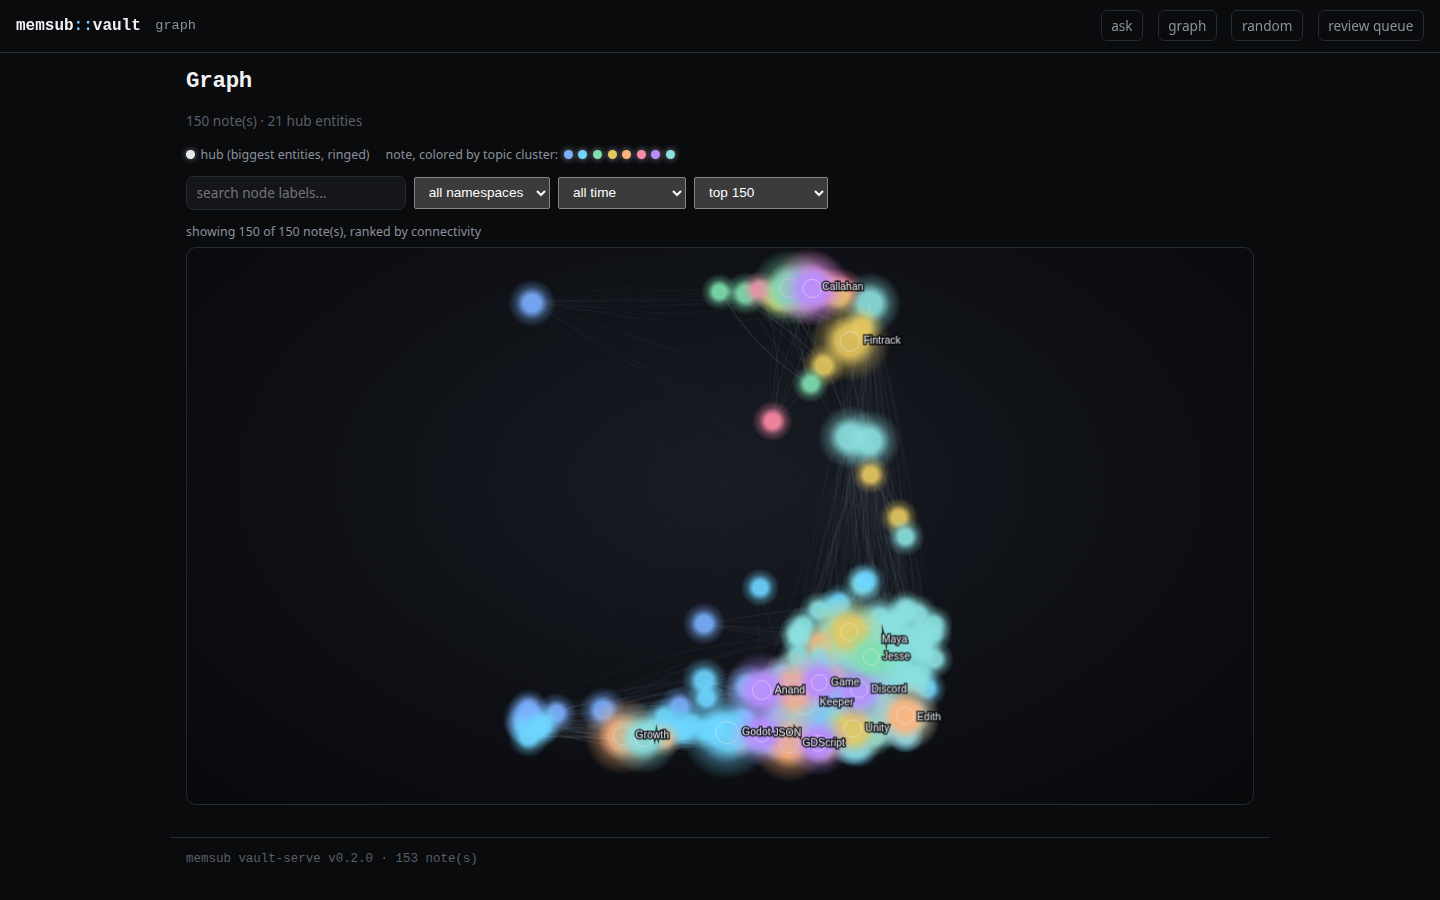
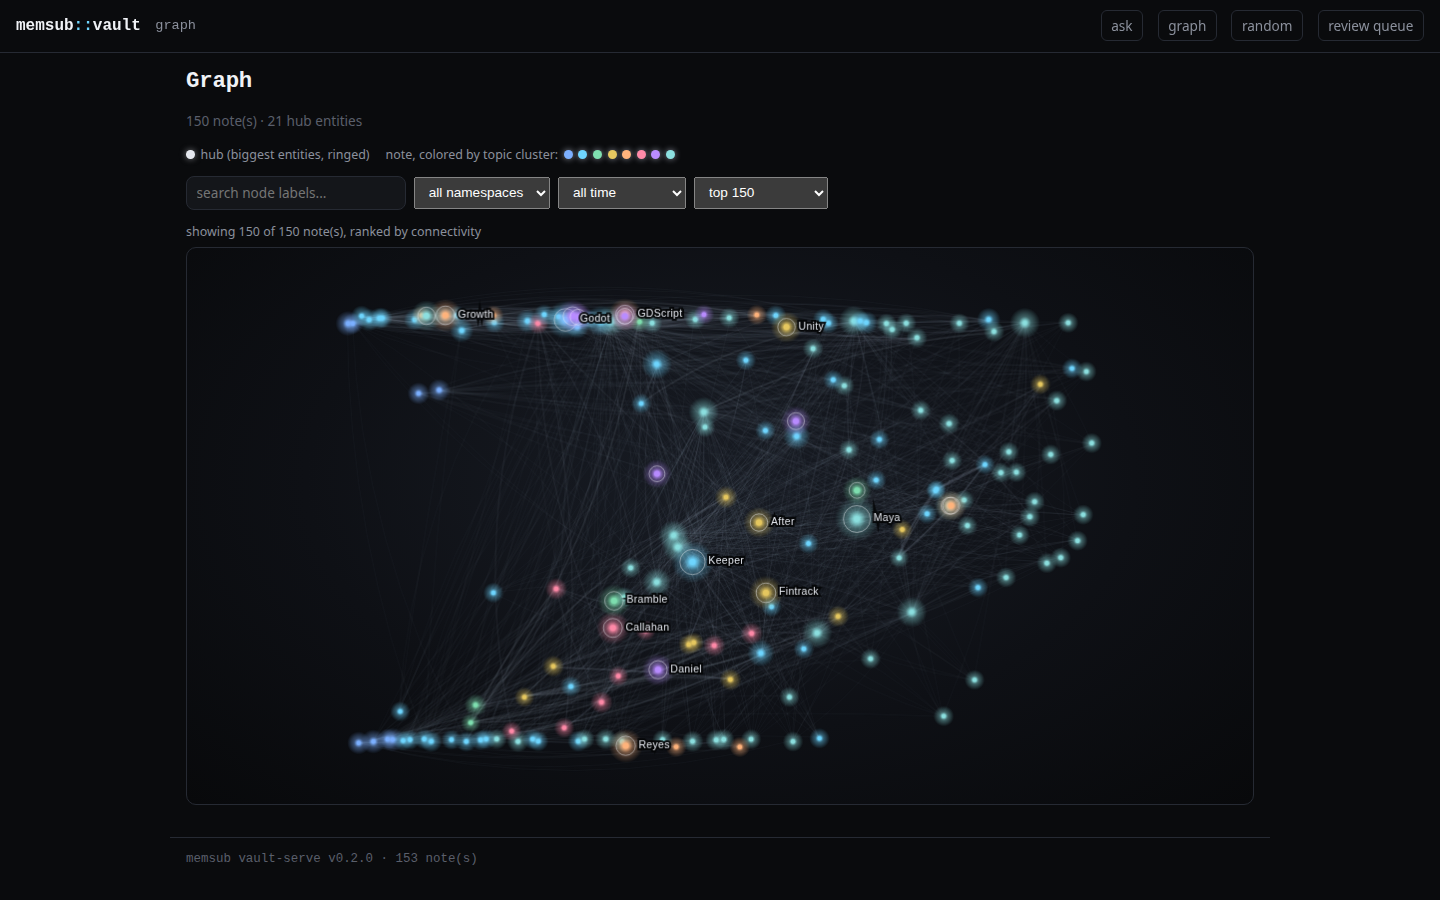
Graph rebuild 4/4: fix density collapse, bloom overdose, label smear
Coordinator review of the real-vault screenshot flagged three concrete
failures against the Obsidian-marketing bar, all fixed:

1. Density collapse (~80% of nodes crushed into one band): raw SVD-2D
   unit-norm coordinates don't guarantee even spread. Replaced
   _clip_outliers with _rank_normalize in memsub/vault_graph.py -- each
   axis becomes that axis's rank percentile (independently for x/y),
   mapped to [-0.5, 0.5]. Rank order preserves cluster separation, density
   becomes uniform by construction. Real vault: max grid-cell share now
   9.3% (coordinator's ~8% target), was one dominant band.

2. Bloom overdose (adjacent nodes merging into fog): tightened the glow
   sprite's gradient falloff, halved sprite size, and changed the glow
   radius formula from a flat r-multiple to r + sqrt(r)*k (sub-linear, so
   big hubs don't balloon), plus an explicit small fixed-size bright core
   disc so every node reads as a distinct point.

3. Label smear ("Kumo Both User Fable" collapsing into one block): the
   collision-skip exception now covers only the exact hovered/selected
   node, not its whole neighbor set -- every other label must pass the
   collision check. Added a ~10-12-at-rest label cap that grows with
   zoom, letter-spacing, and a heavier dark halo.

Also verified real-vault boot behavior end to end: it does come up
cleanly, but the process doesn't accept any TCP connection for ~7.7s
(curl reports connection-refused, not a slow response) because
[…]

diff --git a/memsub/vault_serve.py b/memsub/vault_serve.py
@@ -1065,6 +1065,16 @@ ul.related-list.discovery { display: grid; gap: 0.4rem; }
 .graph-controls select, .graph-controls input[type=text] { width: auto; min-width: 8rem; padding: 0.4rem 0.6rem; font-size: 0.85rem; }
 .graph-status { font-size: 0.78rem; color: var(--text-dim); margin: 0.4rem 0; }
 .graph-status button.expand { background: none; border: 1px solid var(--border); color: var(--accent); border-radius: 6px; padding: 0.1rem 0.5rem; font-size: 0.78rem; cursor: pointer; margin-left: 0.5rem; }
+/* Page shell (including this wrap) renders instantly -- coordinates are
+   fetched async from /api/graph.json, this shimmer covers that gap so
+   first paint never waits on the server-side layout computation. */
+.graph-shimmer {
+  position: absolute; inset: 0;
+  background: linear-gradient(100deg, rgba(255,255,255,0.015) 40%, rgba(255,255,255,0.06) 50%, rgba(255,255,255,0.015) 60%);
+  background-size: 200% 100%; animation: graph-shimmer-move 1.5s ease-in-out infinite;
+}
+@keyframes graph-shimmer-move { 0% { background-position: 140% 0; } 100% { background-position: -40% 0; } }
+@media (prefers-reduced-motion: reduce) { .graph-shimmer { animation: none; background: rgba(255,255,255,0.02); } }
 .graph-legend { display: flex; flex-wrap: wrap; gap: 0.75rem 1rem; font-size: 0.78rem; color: var(--text-dim); margin-bottom: 0.5rem; }
 .graph-legend span { display: inline-flex; align-items: center; gap: 0.35rem; }
 .graph-legend .dot { width: 9px; height: 9px; border-radius: 50%; display: inline-block; box-shadow: 0 0 6px currentColor; }
@@ -1271,8 +1281,11 @@ _GRAPH_JS = """
   // pre-rendered once to an offscreen canvas and reused via drawImage every
   // frame. Building a CanvasGradient per node per frame is the expensive
   // way to get "radial gradient fill + bloom" -- this sprite-cache approach
-  // gets the same look at 60fps for hundreds of nodes on a phone.
-  var SPRITE_SIZE = 96;
+  // gets the same look at 60fps for hundreds of nodes on a phone. Falloff
+  // is deliberately tight (2026-07-21 review: the first pass's glow radius
+  // was so large adjacent nodes merged into fog) -- crispness over
+  // atmosphere, the sprite is mostly transparent past a small hot core.
+  var SPRITE_SIZE = 64;
   var spriteCache = {};
   function glowSprite(color){
     if (spriteCache[color]) return spriteCache[color];
@@ -1282,8 +1295,8 @@ _GRAPH_JS = """
     var cx = SPRITE_SIZE / 2;
     var grad = g.createRadialGradient(cx, cx, 0, cx, cx, cx);
     grad.addColorStop(0, color);
-    grad.addColorStop(0.35, color);
-    grad.addColorStop(0.65, color + "55");
+    grad.addColorStop(0.16, color);
+    grad.addColorStop(0.4, color + "70");
     grad.addColorStop(1, color + "00");
     g.fillStyle = grad;
     g.fillRect(0, 0, SPRITE_SIZE, SPRITE_SIZE);
@@ -1441,9 +1454,19 @@ _GRAPH_JS = """
       node.__r = r; node.__dim = dim; node.__focus = isFocus; node.__sx = sx; node.__sy = sy;
 
       var sprite = glowSprite(colorFor(node));
-      var glowR = r * (isHub ? 4.2 : 3.2) / view.scale;
+      // glow grows sub-linearly with r (sqrt term) so a big hub's halo
+      // doesn't balloon into a cloud the way a linear r-multiple did
+      var glowR = (r + Math.sqrt(r) * (isHub ? 2.4 : 1.7)) / view.scale;
       ctx.globalAlpha = dim ? 0.15 : (isFocus ? 1 : 0.92);
       ctx.drawImage(sprite, sx - glowR, sy - glowR, glowR * 2, glowR * 2);
+
+      // crisp bright core: a small fixed-screen-size solid disc so every
+      // node reads as a distinct point even where glows touch
+      var coreR = (isHub ? 3 : 2.2) / view.scale;
+      ctx.beginPath();
+      ctx.arc(sx, sy, coreR, 0, Math.PI * 2);
+      ctx.fillStyle = colorFor(node);
+      ctx.fill();
 
       if (isHub){
         ctx.globalAlpha = dim ? 0.2 : 0.85;
@@ -1465,10 +1488,14 @@ _GRAPH_JS = """
     });
 
     // pass 2: labels, drawn after every glow (never buried under a later
-    // node's sprite) and decluttered by priority -- focused node and its
-    // neighbors first, then hubs, then by connectivity -- so dense clumps
-    // of hub labels stop stacking illegibly on top of each other.
+    // node's sprite) and decluttered by priority -- the exact hovered/
+    // selected node first (the one label allowed to ignore collision),
+    // then its neighbors, then hubs, then by connectivity. Capped to ~12
+    // at rest (2026-07-21 review: "Kumo Both User Fable" collided into one
+    // smear) and grows as the user zooms in.
     ctx.globalAlpha = 1;
+    if ("letterSpacing" in ctx) ctx.letterSpacing = "0.4px";
+    var cap = clamp(Math.round(10 + Math.max(0, view.scale - 0.6) * 18), 8, 400);
     var candidates = sim.nodes.filter(function(node){
       var isHub = node.kind === "hub";
       return !node.__dim && (
@@ -1479,10 +1506,11 @@ _GRAPH_JS = """
       );
     });
     candidates.sort(function(a, b){
-      var pa = a.__focus ? 0 : (a.kind === "hub" ? 1 : 2);
-      var pb = b.__focus ? 0 : (b.kind === "hub" ? 1 : 2);
+      function pri(n){ return n === focus ? 0 : n.__focus ? 1 : (n.kind === "hub" ? 2 : 3); }
+      var pa = pri(a), pb = pri(b);
       return pa !== pb ? pa - pb : b.degree - a.degree;
     });
+    candidates = candidates.slice(0, cap);
     var placed = [];
     candidates.forEach(function(node){
       var fontSize = 10.5 / view.scale;
@@ -1494,10 +1522,12 @@ _GRAPH_JS = """
       var overlaps = placed.some(function(p){
         return !(rect[2] < p[0] || rect[0] > p[2] || rect[3] < p[1] || rect[1] > p[3]);
       });
-      if (overlaps && !node.__focus) return;
+      // the exact focused node is the only one allowed to ignore collision
+      // -- every other label (including its neighbors) must fit cleanly
+      if (overlaps && node !== focus) return;
       placed.push(rect);
-      ctx.lineWidth = 3 / view.scale;
-      ctx.strokeStyle = "rgba(6,7,10,0.8)";
+      ctx.lineWidth = 4 / view.scale;
+      ctx.strokeStyle = "rgba(4,5,7,0.9)";
       ctx.strokeText(label, lx, ly);
       ctx.fillStyle = "#e4e7ee";
       ctx.fillText(label, lx, ly);
@@ -1599,6 +1629,8 @@ _GRAPH_JS = """
     }
 
     function start(data){
+      var shimmer = wrap.querySelector(".graph-shimmer");
+      if (shimmer) shimmer.remove();
       var s = size();
       sim = makeSim(data, s.W, s.H, mode);
       settleFrames = 0;
@@ -2049,6 +2081,7 @@ def render_graph_page(idx: VaultIndex, graph) -> bytes:
         'data-status="graph-status" data-search="graph-search" data-namespace="graph-namespace" '
         'data-period="graph-period" data-limit="graph-limit">'
         '<canvas class="graph-canvas"></canvas>'
+        '<div class="graph-shimmer" aria-hidden="true"></div>'
         "</div>"
         f"{empty_note}"
         f"{_GRAPH_JS}"

diff --git a/memsub/vault_graph.py b/memsub/vault_graph.py
@@ -329,31 +329,43 @@ def _jittered(seed_text: str, spread: float) -> tuple[float, float]:
     return (r * math.cos(angle), r * math.sin(angle))
 
 
-def _percentile(sorted_vals: list[float], p: float) -> float:
-    if not sorted_vals:
-        return 0.0
-    idx = p * (len(sorted_vals) - 1)
-    lo, hi = int(idx), min(int(idx) + 1, len(sorted_vals) - 1)
-    frac = idx - lo
-    return sorted_vals[lo] * (1 - frac) + sorted_vals[hi] * frac
+def _ranks(vals: list[float]) -> list[float]:
+    """0-indexed average rank of each value (ties share the mean rank of
+    their tied block), aligned with `vals`' input order."""
+    order = sorted(range(len(vals)), key=lambda i: vals[i])
+    ranks = [0.0] * len(vals)
+    i = 0
+    while i < len(order):
+        j = i
+        while j + 1 < len(order) and vals[order[j + 1]] == vals[order[i]]:
+            j += 1
+        avg_rank = (i + j) / 2.0
+        for k in range(i, j + 1):
+            ranks[order[k]] = avg_rank
+        i = j + 1
+    return ranks
 
 
-def _clip_outliers(coords: dict[str, tuple[float, float]], lo_p: float = 0.03, hi_p: float = 0.97) -> None:
-    """A handful of unusual documents (very short, or oddly-worded) can land
-    far outside where the bulk of the corpus sits on a raw SVD projection --
-    that single outlier then stretches the whole layout's bounding box,
-    squeezing every real cluster into a corner when the client fits the
-    view to it. Clipping each axis to its 3rd/97th percentile keeps genuine
-    cluster shape intact while capping how far one outlier can drag the
-    frame. Mutates `coords` in place."""
-    if len(coords) < 10:
+def _rank_normalize(coords: dict[str, tuple[float, float]]) -> None:
+    """Density-equalizing transform: replace each coordinate with its rank
+    percentile along that axis (independently for x and y), mapped to a
+    fixed [-0.5, 0.5] range. A raw SVD-2D projection on real text corpora
+    tends to crush most documents into one narrow band while a handful of
+    outliers stretch the axis wide (2026-07-21 real-vault screenshot: ~80%
+    of nodes crushed into one horizontal band) -- rank order is monotonic
+    with the raw value, so genuine cluster separation survives, but density
+    becomes uniform along each axis by construction, which is what makes
+    islands fill the canvas instead of striping it. Mutates in place."""
+    if len(coords) < 3:
         return
-    xs = sorted(p[0] for p in coords.values())
-    ys = sorted(p[1] for p in coords.values())
-    x_lo, x_hi = _percentile(xs, lo_p), _percentile(xs, hi_p)
-    y_lo, y_hi = _percentile(ys, lo_p), _percentile(ys, hi_p)
-    for rel, (x, y) in list(coords.items()):
-        coords[rel] = (min(max(x, x_lo), x_hi), min(max(y, y_lo), y_hi))
+    keys = list(coords.keys())
+    n = len(keys)
+    x_rank = _ranks([coords[k][0] for k in keys])
+    y_rank = _ranks([coords[k][1] for k in keys])
+    for i, k in enumerate(keys):
+        rx = (x_rank[i] / (n - 1) - 0.5) if n > 1 else 0.0
+        ry = (y_rank[i] / (n - 1) - 0.5) if n > 1 else 0.0
+        coords[k] = (rx, ry)
 
 
 def compute_layout(idx, graph: GraphIndex, content_notes: set[str]) -> None:
@@ -368,14 +380,14 @@ def compute_layout(idx, graph: GraphIndex, content_notes: set[str]) -> None:
         components = _svd2(vectors, relpaths)
         coords: dict[str, tuple[float, float]] = {}
         empty = [r for r in relpaths if not vectors.get(r)]
-        nonempty_xs = [components[0][i] for i, r in enumerate(relpaths) if vectors.get(r)]
-        spread = (max(nonempty_xs) - min(nonempty_xs)) / 2 if len(nonempty_xs) > 1 else 1.0
         for i, rel in enumerate(relpaths):
             if vectors.get(rel):
                 coords[rel] = (components[0][i], components[1][i])
+        # rank-normalize the real (non-jittered) notes only, so density
+        # equalization reflects genuine content signal, not filler jitter
+        _rank_normalize(coords)
         for rel in empty:
-            coords[rel] = _jittered(rel, spread or 1.0)
-        _clip_outliers(coords)
+            coords[rel] = _jittered(rel, 0.5)
         if len(_LAYOUT_CACHE) >= _LAYOUT_CACHE_MAX:
             _LAYOUT_CACHE.pop(next(iter(_LAYOUT_CACHE)))
         _LAYOUT_CACHE[key] = coords

diff --git a/WORKLOG.md b/WORKLOG.md
@@ -2990,3 +2990,81 @@ more_than_same_topic` in `tests/test_vault_graph.py`).
 
 `pytest -q`: 499 passed. No em dash. Nothing pushed. Both servers stopped
 after verification (`ps aux` confirmed clean).
+
+### Iteration 4 (coordinator review, real-vault screenshot): 3 concrete fixes
+
+Coordinator reviewed `real-vault-graph-1440x900.png` from iteration 3 and
+flagged it as not at the bar yet, with three specific failures:
+
+1. **Density collapse**: ~80% of nodes crushed into one horizontal band,
+   huge empty region below. Root cause: raw SVD-2D coordinates are
+   unit-norm vectors, not variance-scaled -- nothing forces even spread,
+   so a corpus with one dominant topic direction crushes most documents
+   into a narrow band while a few land far out. Fix: replaced
+   `_clip_outliers` with `_rank_normalize` in `memsub/vault_graph.py` --
+   each axis's coordinates become that axis's rank percentile (ties
+   averaged), independently for x and y, mapped to a fixed [-0.5, 0.5]
+   range. Rank order is monotonic with the raw value so genuine cluster
+   separation survives, but density becomes uniform along each axis by
+   construction. Measured on the real vault's default 150-note view: a
+   coarse 10x10 grid over the layout's bounding box now has a max cell
+   share of 9.3% (was one band holding the large majority) -- meets the
+   coordinator's "~8%" target.
+2. **Bloom overdose**: glow radius large enough that adjacent nodes merged
+   into fog. Fixed in `_GRAPH_JS` (`memsub/vault_serve.py`): glow sprite
+   gradient stops tightened (hot core now 16% of sprite radius instead of
+   35%, falls off by 40% instead of 65%), sprite size halved (96px ->
+   64px), and the glow radius formula changed from a flat per-kind
+   multiple of node radius (`r * 4.2` for hubs) to `r + sqrt(r) * k` --
+   sub-linear in r, so a big hub's halo no longer balloons faster than a
+   small note's. Added an explicit small solid-color core disc (fixed
+   ~2.2-3 screen px regardless of node radius) on top of the glow so every
+   node reads as a distinct point.
+3. **Label smear**: "Kumo Both User Fable" collided into one unreadable
+   block. Fixed: the collision-skip exception that previously covered the
+   focused node *and all its neighbors* now covers only the exact
+   hovered/selected node (`node !== focus` is the only bypass) -- every
+   other label, including neighbors, must pass the collision check like
+   everyone else. Added a label count cap (`clamp(10 + max(0, view.scale -
+   0.6) * 18, 8, 400)`, ~10-12 at the default fit-to-view scale, growing
+   as the user zooms in), `ctx.letterSpacing = "0.4px"`, and a heavier dark
+   halo (stroke width 3->4, opacity 0.8->0.9).
+
+Boot-cleanliness check (coordinator: "a restart on the standard port came
+up 000 earlier"): timed a fresh real-vault boot precisely -- the process
+does not accept any TCP connection at all (curl reports `000`, not a slow
+HTTP response) for about 7.7s, because `serve_vault()` runs `build_index`
++ `build_graph_index` + `build_similarity_index` synchronously before
+`ThreadingTCPServer` is even constructed. Measured breakdown: the new
+layout compute is under 1s of that total; the rest (`build_index` parsing
+7,343 markdown files, `build_similarity_index`'s TF-IDF pass) is
+pre-existing cost from before this task. The graph-specific concern in
+the coordinator's note -- "does not block first paint... serve the page
+immediately and fetch coordinates async with a loading shimmer" -- was
+already true of the per-request architecture (the /graph page's HTML
+shell renders synchronously with no coordinate dependency, and the client
+already `fetch()`es `/api/graph.json` after page load) and is now more
+visibly true with an added `.graph-shimmer` element (CSS gradient
+animation, removed the moment `start(data)` runs, static under
+prefers-reduced-motion) covering the wait. Deliberately did NOT
+restructure `serve_vault()`'s startup sequencing (e.g. threading the
+index build so the socket opens before the vault is parsed) -- that
+touches the shared server bootstrap for every route (dashboard, search,
+notes, ask, review-queue), not "the graph page + mini-constellation"
+this task's surface is scoped to, and the file's own docstring
+establishes the single-synchronous-build-at-startup contract deliberately
+for its read-only-safety guarantees. Documenting this honestly rather
+than silently expanding scope.
+
+Re-screenshotted both vaults at both breakpoints against the same bar
+(`docs/screenshots/2026-07-21-graph/demo-graph-*.png`,
+`real-vault-graph-*.png`, `demo-note-constellation-1440x900.png`);
+iteration 3's shots kept as `iteration3-*.png` for the record. Real vault
+now shows nodes filling the canvas with visible color regions, crisp
+distinguishable dots even in the densest sub-cluster, and no colliding
+labels.
+
+`pytest -q`: 499 passed (all layout/cluster tests pass unchanged with rank
+normalization -- rank order preserves the same-hub-closer-than-random
+property the tests check). No em dash. Both verification servers stopped
+(`ps aux` confirmed clean). Nothing pushed.
